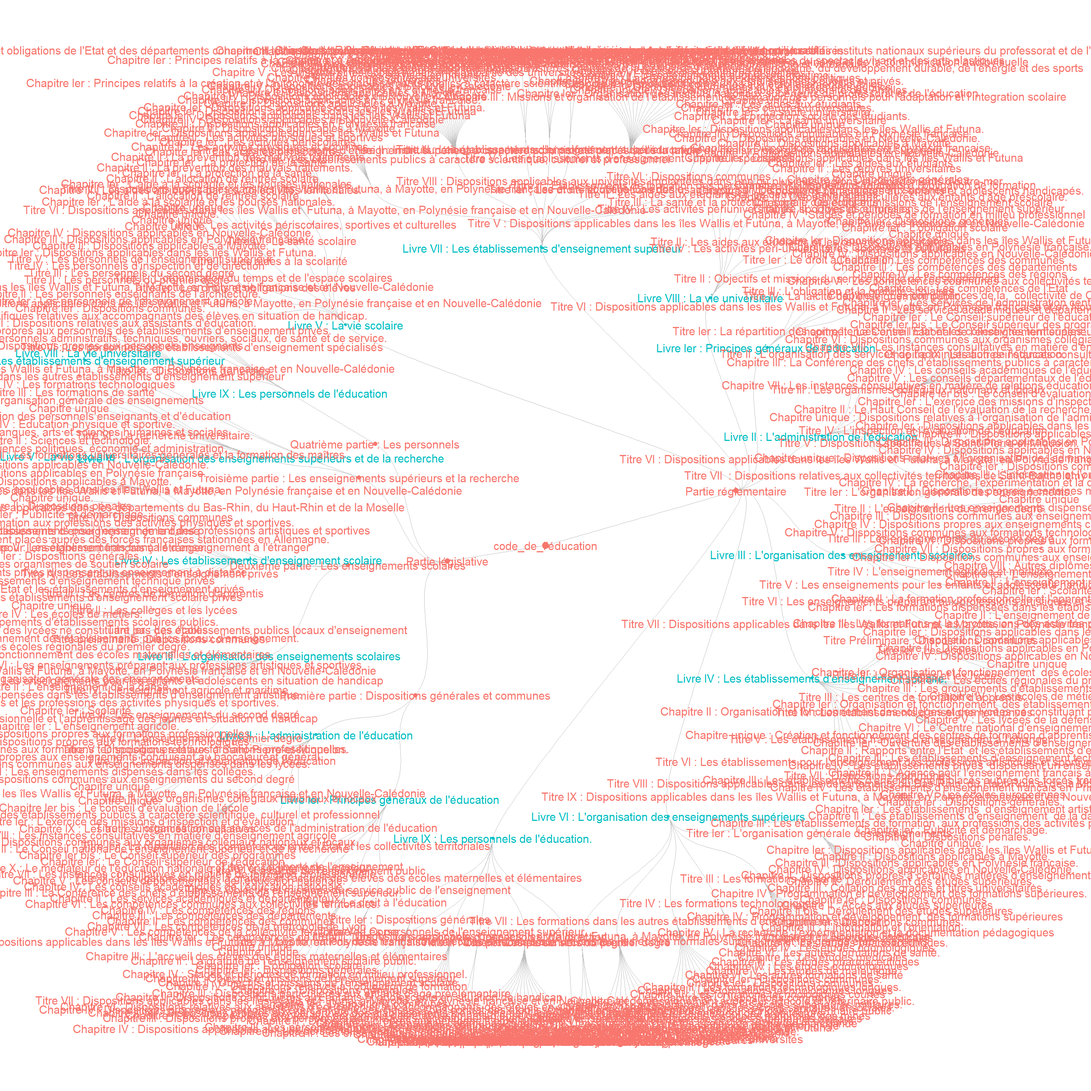
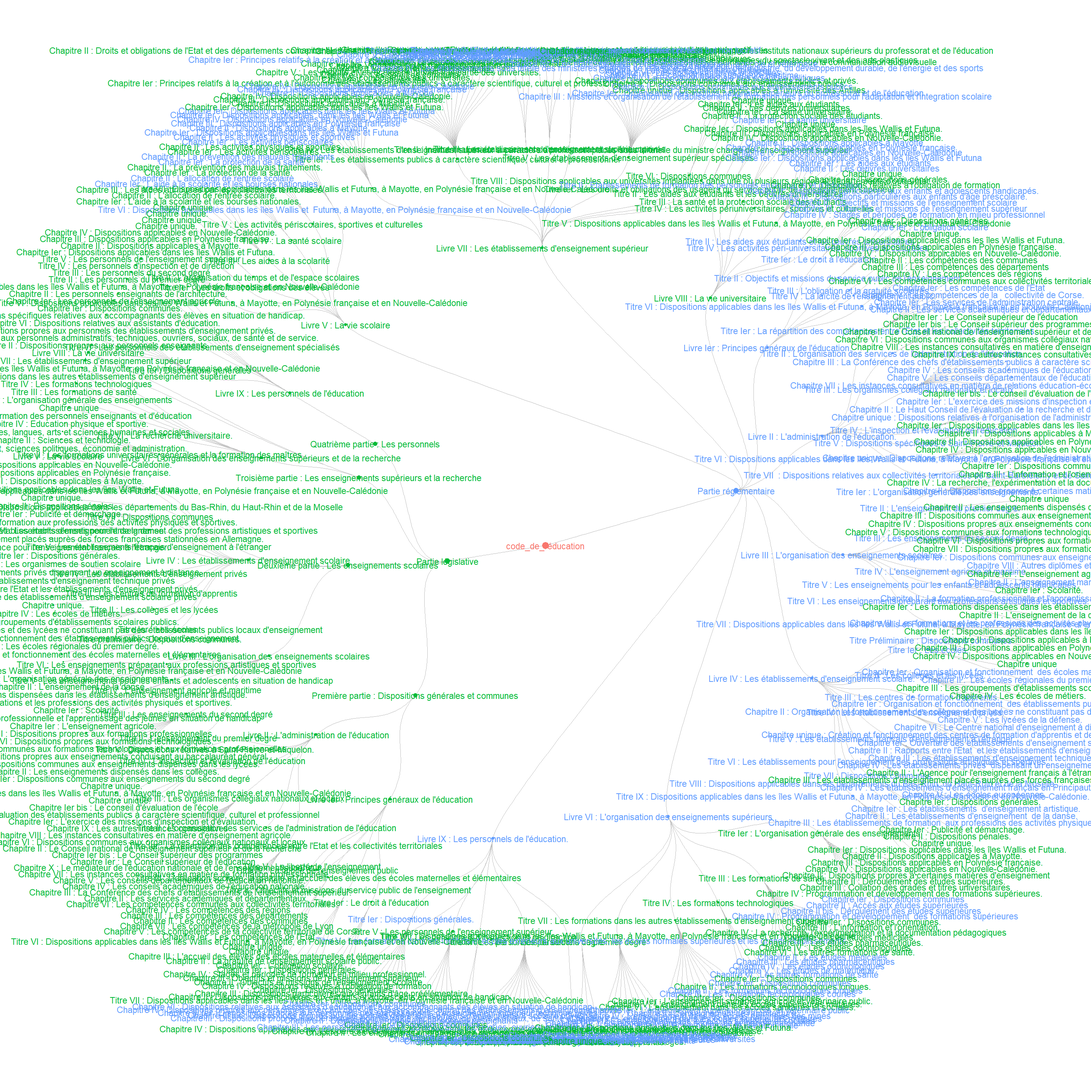
changer la couleur

diff --git a/tree.md b/tree.md
@@ -27,7 +27,7 @@ vertices = data.frame(
   name = unique(c(as.character(edges$from), as.character(edges$to)))
 )
 
-#set niveau
+#set niveau pour le taille
 mychapitre=which(is.na(match(vertices$name,edges$from)))
 mytitre=which(!is.na(match(vertices$name,edges_livre_titre$to)))
 mylivre=which(!is.na(match(vertices$name,edges_sousPartie_livre$to)))
@@ -42,30 +42,41 @@ vertices$niveau[mysouspartie]=8
 vertices$niveau[ mypartie ] =16
 vertices$niveau[mycode]=32
 
+#set niveau group pour la couleur
 vertices$group[ mychapitre ] ="NA"
 vertices$group[ mytitre ] ="NA"
 vertices$group[ mylivre ] ="NA"
-vertices$group[mysouspartie]="NA"
-vertices$group[ mypartie ] ="NA"
-vertices$group[mycode]="NA"
-
-
-#vertices$niveau[thevide]=0
-
-
+vertices$group[ mysouspartie]="NA"
+vertices$group[ mypartie ] =vertices$name[ mypartie ]
+vertices$group[mycode]="code"
+for (souspartie in mysouspartie)
+ {
+    find<-gsub("'", "''", vertices$name[souspartie])
+    vertices$group[souspartie]<-sqldf(sprintf("select partie from data where sous_partie='%s'", find))$partie[1]
+    
+ }
  for (livre in mylivre)
  {
-    #this<-sqldf(sprintf("SELECT partie FROM data where livre='%s'"),vertices$name[livre])$partie[1]
-   #"Livre Ier : Principes généraux de l'éducation"
-    vertices$group[livre]<-sqldf("SELECT partie FROM data where livre='Livre Ier : Principes généraux de l''éducation'")$partie[1]
+    find<-gsub("'", "''", vertices$name[livre])
+    vertices$group[livre]<-sqldf(sprintf("select partie from data where livre='%s'", find))$partie[1]
+ }
 
+for (titre in mytitre)
+ {
+    find<-gsub("'", "''", vertices$name[titre])
+    vertices$group[titre]<-sqldf(sprintf("select partie from data where titre = '%s'", find))$partie[1]
+}
 
+ for (chapitre in mychapitre)
+ {
+    find<-gsub("'", "''", vertices$name[chapitre])
+    vertices$group[chapitre]<-sqldf(sprintf("select partie from data where chapitre = '%s'", find))$partie[1]
  }
 ```
 
 ``` r
 mygraph<- graph_from_data_frame(edges,vertices=vertices) 
-ggraph(mygraph, layout = 'dendrogram', circular =TRUE)+geom_edge_diagonal(colour="grey")+scale_edge_colour_distiller(palette = "RdPu") +geom_node_point(aes(colour=group,size=niveau))+geom_node_text(aes(label=name,colour=group),size=8)+theme_void()+theme(legend.position="none",plot.margin=unit(c(0,0,0,0),"cm"))
+ggraph(mygraph, layout = 'dendrogram', circular =TRUE)+geom_edge_diagonal(colour="grey")+scale_edge_colour_distiller(palette = "RdPu") +geom_node_point(aes(colour=group,size=niveau*2))+geom_node_text(aes(label=name,colour=group),size=6)+theme_void()+theme(legend.position="none",plot.margin=unit(c(0,0,0,0),"cm"))
 ```
 
     ## Multiple parents. Unfolding graph
